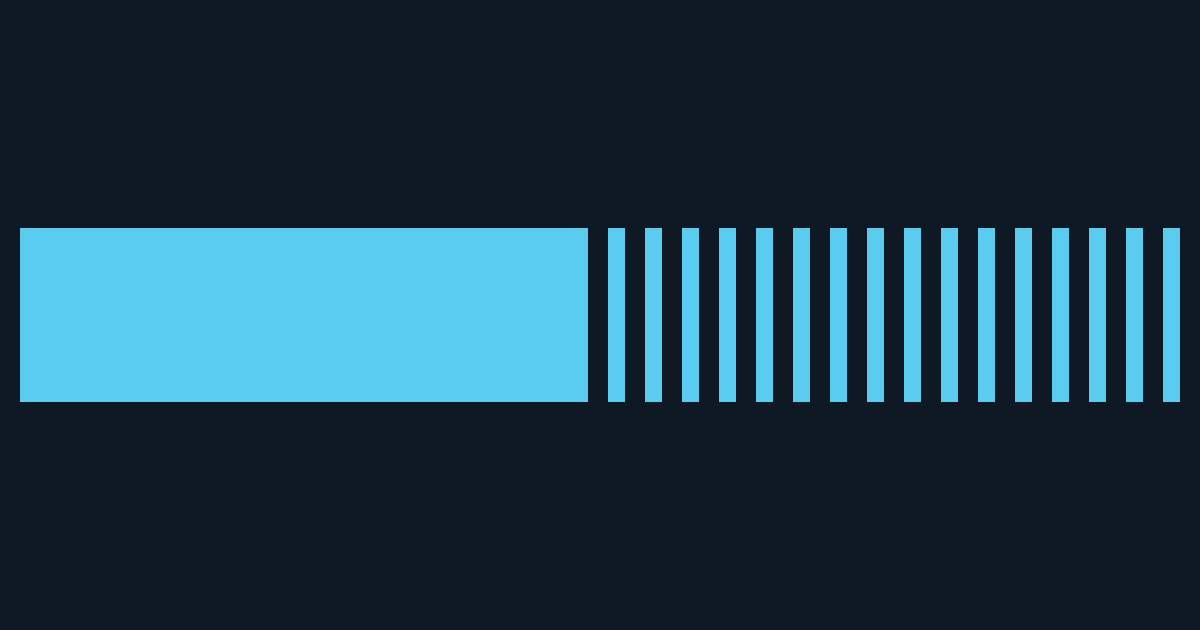
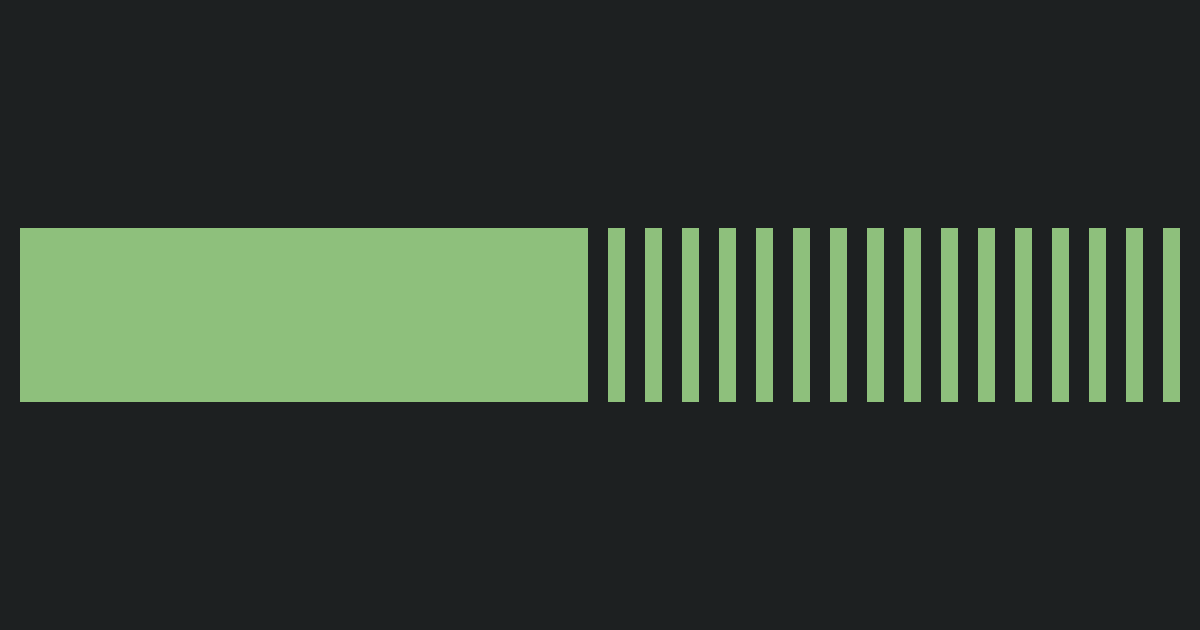
Updated site theme and index description

Changed region(s): [[0.0, 0.3619, 0.9867, 0.6635]]

diff --git a/static/terminal.css b/static/terminal.css
@@ -2,9 +2,9 @@
 @import url('https://cdn.staticdelivr.com/gfonts/css2?family=Fira+Code:wght@300..700&display=swap');
 
 :root {
-  --background: #0e1923;
-  --foreground: #d6e8ee;
-  --accent: #5accf0;
+  --background: #1d2021;
+  --foreground: #ebdbb2;
+  --accent: #8ec07c;
   --radius: 0;
   --font-size: 1rem;
   --line-height: 1.54em;

diff --git a/themes/terminal/assets/css/terminal.css b/themes/terminal/assets/css/terminal.css
@@ -1,2 +1,4 @@
 /* Placeholder file for your custom settings. */
 /* You can get the color scheme variables from https://panr.github.io/terminal-css/ */
+
+/* Fira Code: https://github.com/tonsky/FiraCode */

diff --git a/content/_index.md b/content/_index.md
@@ -7,11 +7,11 @@ title = 'Ayaan Ali'
 
 My name is Ayaan. 
 
-I'm an undergraduate at Columbia University where I major in history and South Asian studies. My academic interests are interdisciplinary, and I often try to supplement my historical coursework with philosophy, religion, area studies, anthropology, and sociology.  
+I'm a senior at Columbia University where I study history, among other things. 
 
-I aspire to become an academic specializing in South Asia. After I graduate from Columbia, I plan on pursuing master's programs in South Asian studies abroad in the United Kingdom. I will then seek a doctoral program back in the U.S. either in area studies or history.   
+My interests include political and social theory, cinema studies, and South Asia. 
 
-My motivation for studying South Asia, specifically Pakistan, lies at the intersection of my personal identities and the region's growing influence in global affairs. There is a dearth of Pakistan specialists in the U.S. history departments, and I hope to help fill that gap. 
+Currently, I am actively studying Urdu and its poetry and literature. 
 
 
 ![Jahangir's Wine Cup](images/winecup.jpg)

diff --git a/content/posts/post2.md b/content/posts/post2.md
@@ -4,7 +4,7 @@ date = "2025-08-18T03:49:06-04:00"
 #dateFormat = "2006-01-02" # This value can be configured for per-post date formatting
 author = "Ayaan Ali"
 authorTwitter = "" #do not include @
-cover = "images/post_2_cover.jpg"
+cover = ""
 tags = ["blog", "post2"]
 keywords = ["burnout", "surveillance capitalism", "byung-chul han"]
 description = "My summer venture into digital privacy and reading *The Burnout Society*."

diff --git a/content/posts/post1.md b/content/posts/post1.md
@@ -4,8 +4,8 @@ date = "2025-08-16T20:39:01-04:00"
 #dateFormat = "2006-01-02" # This value can be configured for per-post date formatting
 author = "Ayaan Ali"
 authorTwitter = "" #do not include @
-cover = "images/post_one_cover.jpg"
-tags = ["blog", "post_zero"]
+cover = ""
+tags = ["blog", "post_one"]
 keywords = ["intros"]
 description = "Brief introductory thoughts on the purpose of this blog."
 showFullContent = false

diff --git a/content/contact.md b/content/contact.md
@@ -3,6 +3,8 @@ date = '2025-08-16T20:24:14-04:00'
 title = 'Contact'
 +++
 
+![Contact Cover](/images/contact_cover.jpg)
+
 Feel free to reach out through any of the following:
 
 ## 📧 Email
